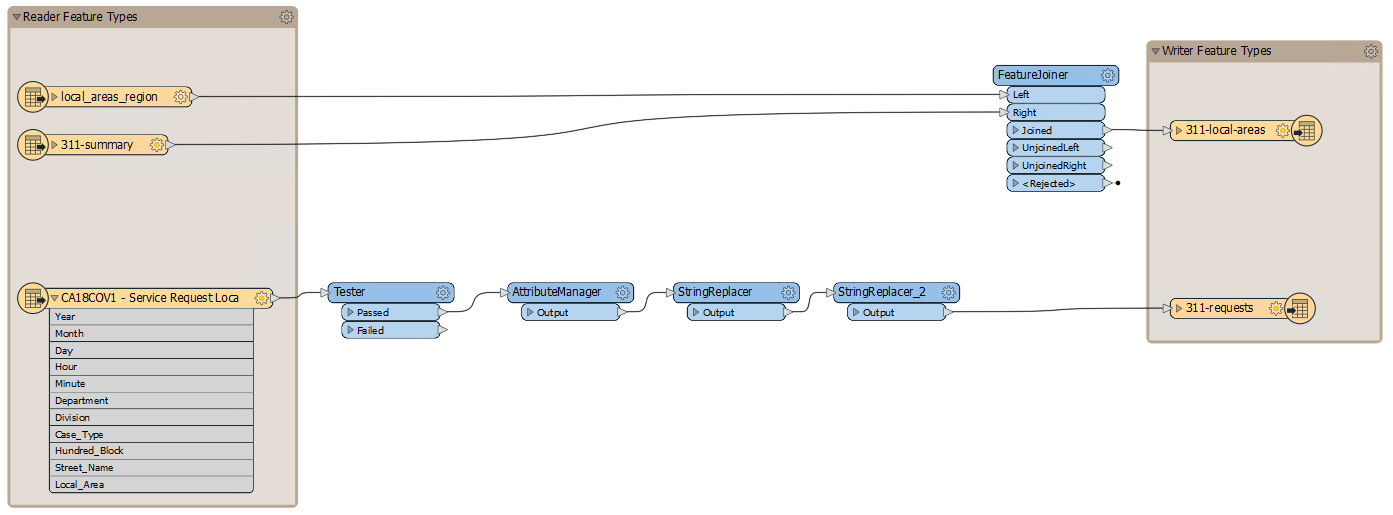
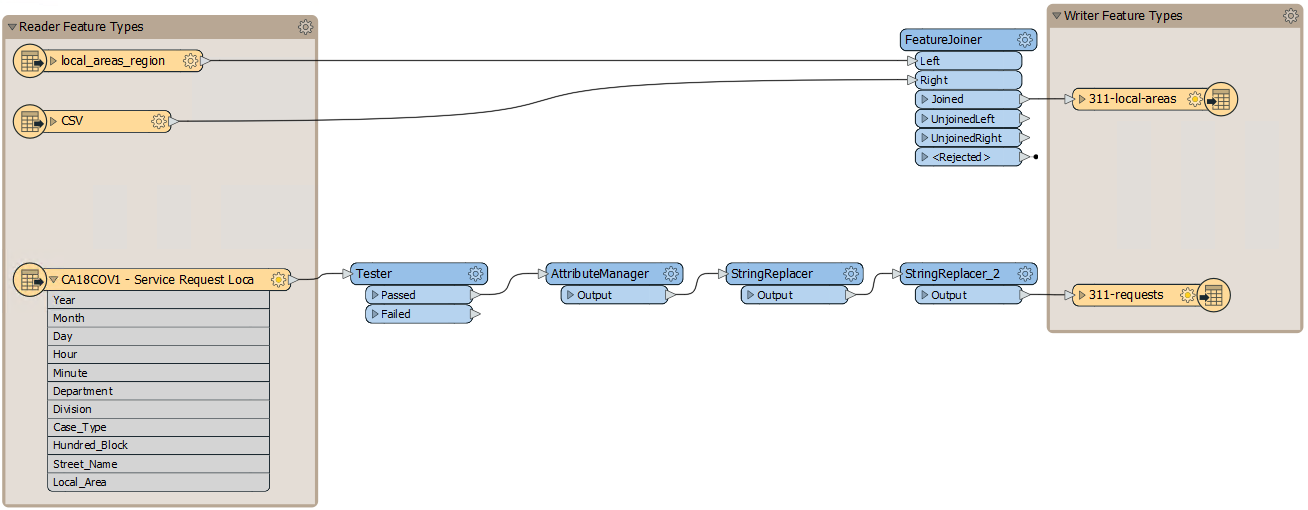
2019 review updates

Changed region(s): [[0.0, 0.0, 1.0, 1.0], [0.3976, 0.2353, 0.4587, 0.2647]]

diff --git a/3.transformations/3.09.ex3.3b.md b/3.transformations/3.09.ex3.3b.md
@@ -32,7 +32,7 @@ Click on blank canvas, then type "FeatureJoiner" and hit <kbd>Enter</kbd> when i
 
 Click and drag to move it to the top-right section of your canvas. Your workspace should look like this:
 
-![](./Images/statistics-calculator-added.png)
+![](./Images/feature-joiner-added.png)
 
 We aren't going to connect the FeatureJoiner to anything yet. First, we need to add the data we will be joining together. We'll do that in the next unit, where we cover working with multiple readers and writers.
 
